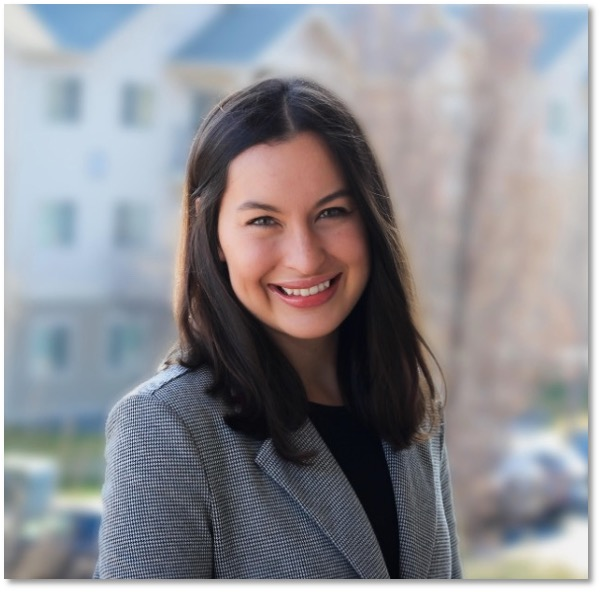
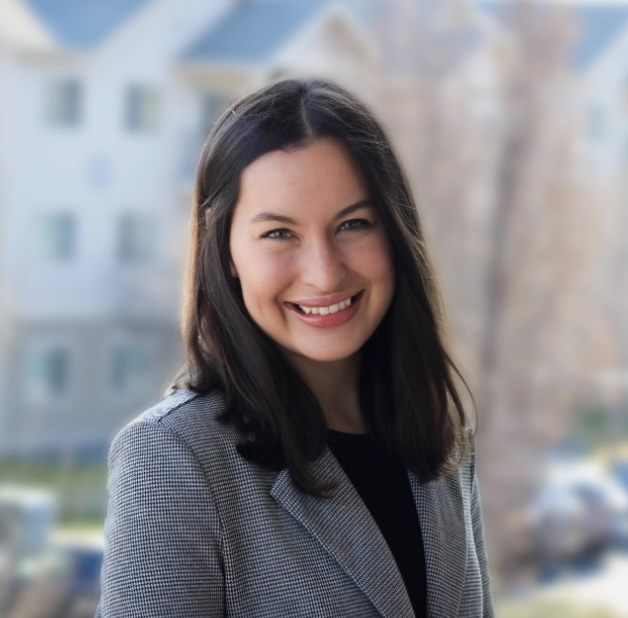
updated photo crop

diff --git a/content/authors/admin/_index.md b/content/authors/admin/_index.md
@@ -1,6 +1,6 @@
 ---
 # Display name
-title: Jenna Abrahamson, PhD
+title: Jenna Abrahamson
 
 # Full name (for SEO)
 first_name: Jenna
@@ -14,7 +14,7 @@ status:
 superuser: true
 
 # Role/position/tagline
-role: Linus Pauling Distinguished Postdoc Fellow
+role: Remote Sensing Scientist
 
 # Organizations/Affiliations to show in About widget
 organizations:
